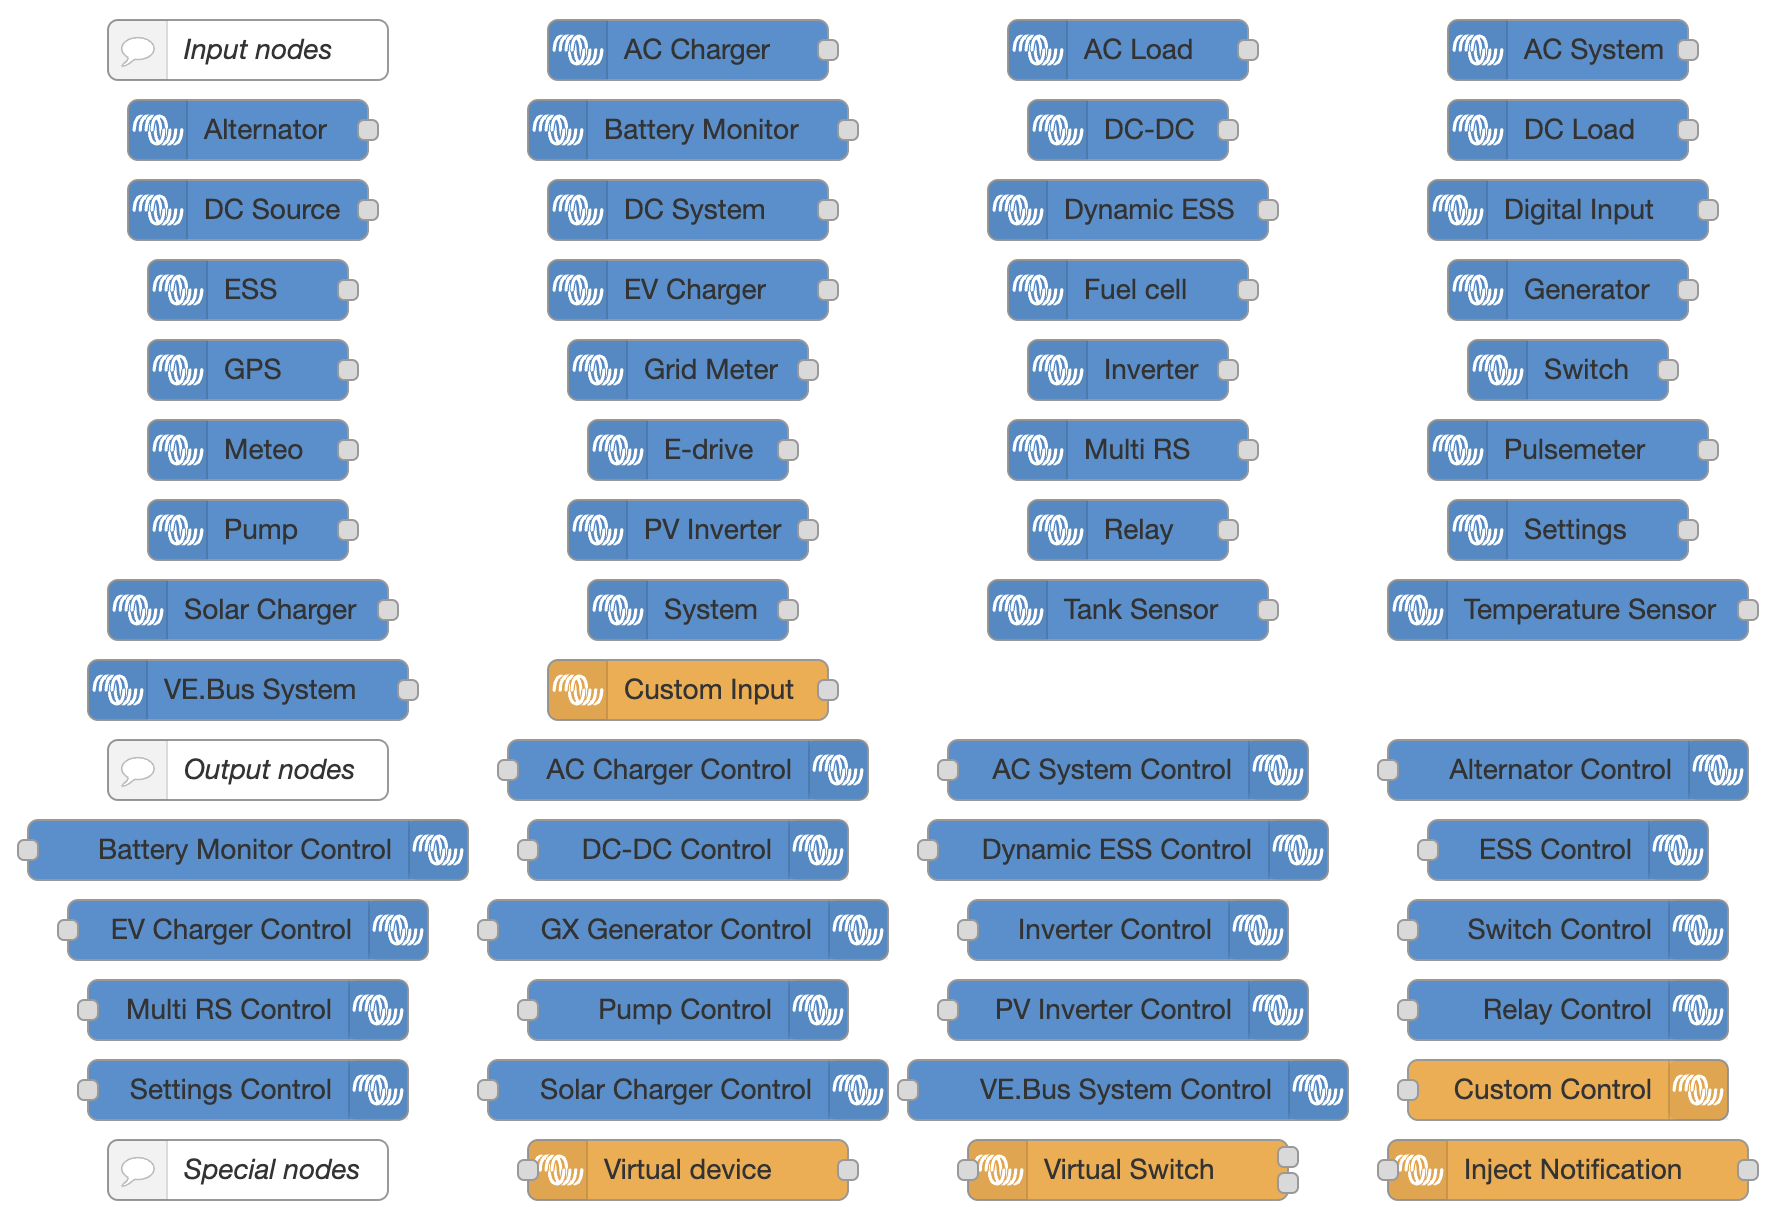
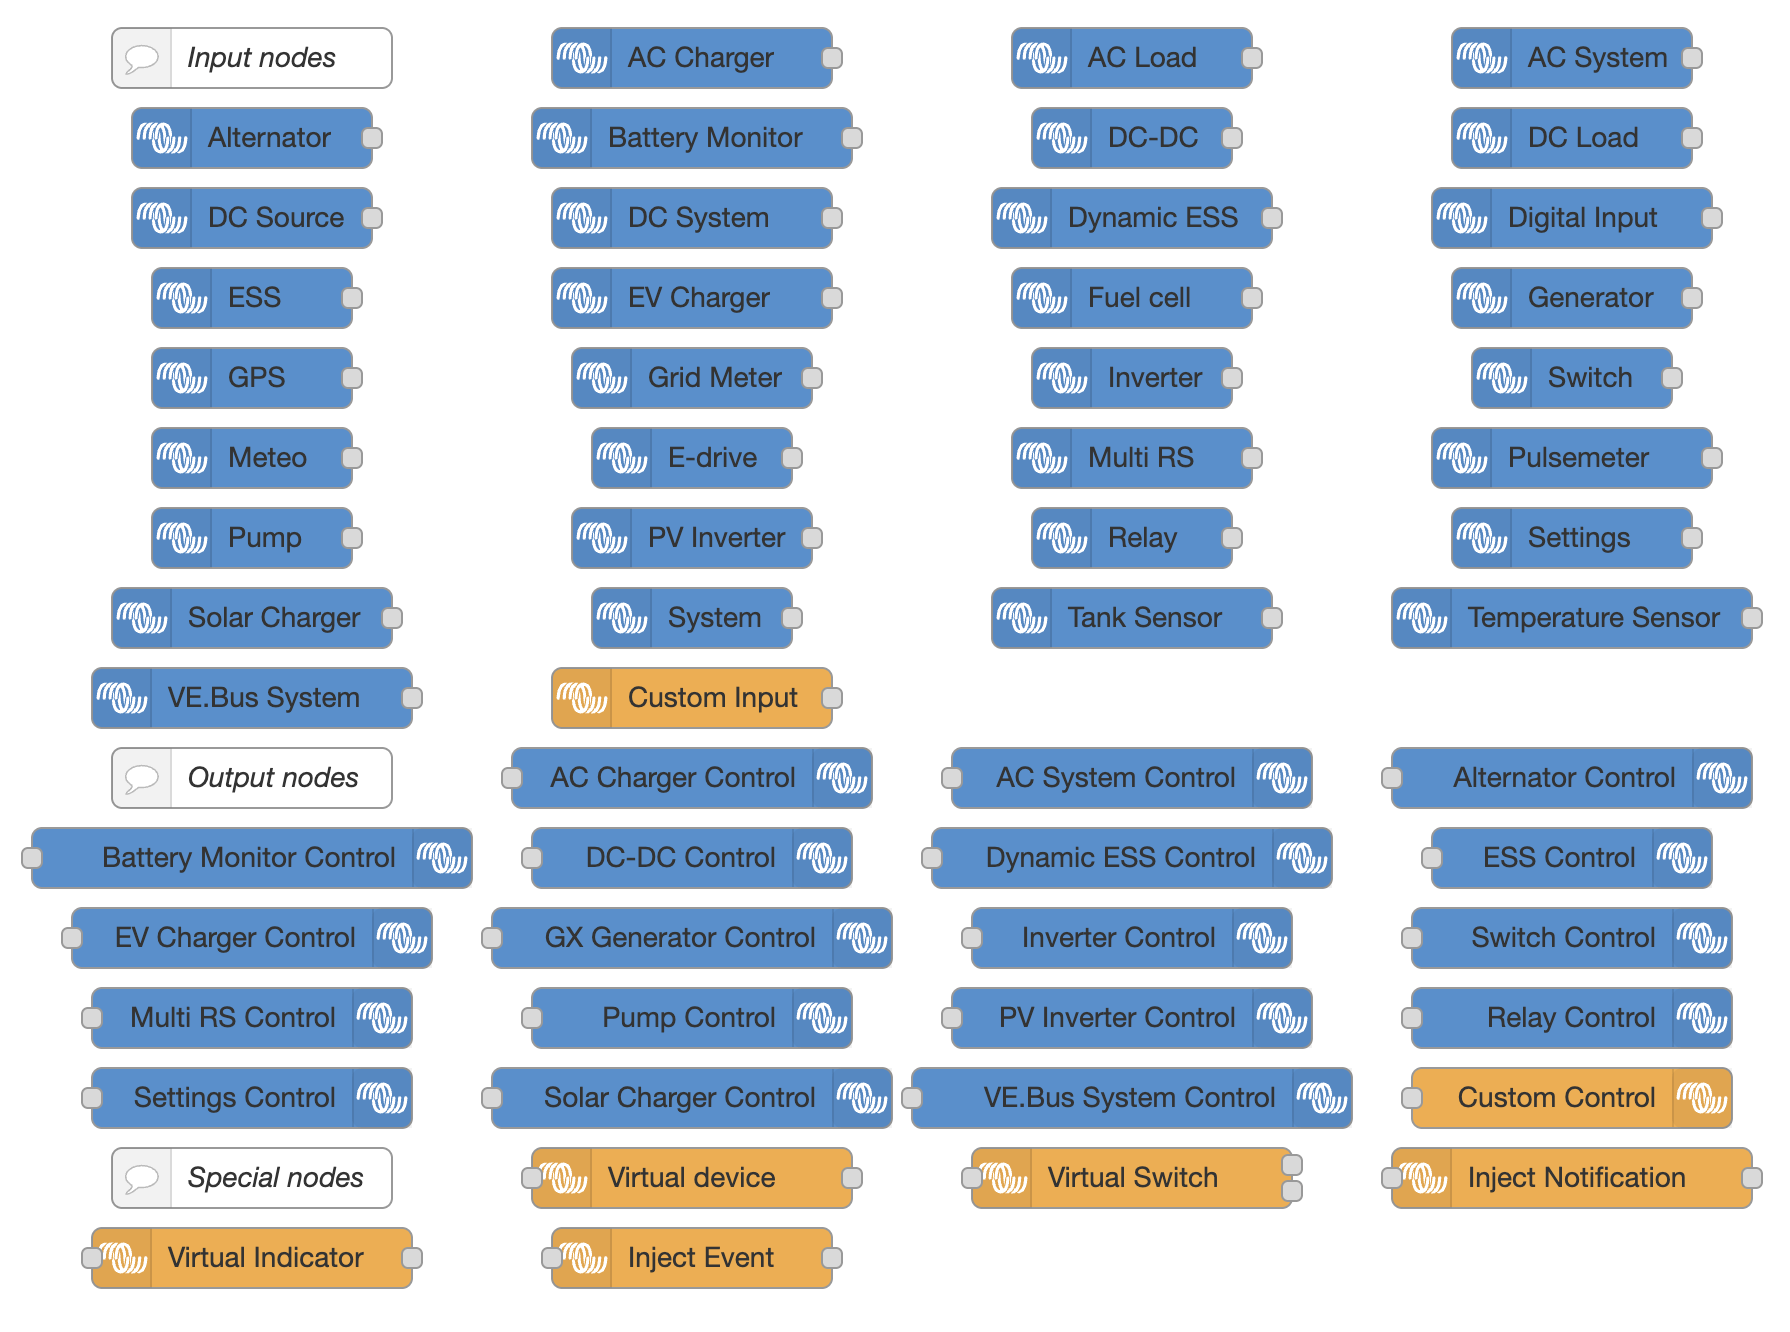
docs: add virtual indicator and inject event nodes to palette and documentation

diff --git a/scripts/node-palette.js b/scripts/node-palette.js
@@ -76,5 +76,7 @@ for (const node of nodes) {
 output.nodes.push({ type: 'victron-virtual', name: 'Virtual device', z: '1234567891', id: '1234567891', x: 370, y: 620 })
 output.nodes.push({ type: 'victron-virtual-switch', name: 'Virtual Switch', z: '1234567891', id: '1234567892', x: 590, y: 620 })
 output.nodes.push({ type: 'victron-inject', name: 'Inject Notification', z: '1234567891', id: '1234567893', x: 810, y: 620 })
+output.nodes.push({ type: 'victron-virtual-indicator', name: 'Virtual Indicator', z: '1234567891', id: '1234567894', x: 150, y: 660 })
+output.nodes.push({ type: 'victron-event', name: 'Inject Event', z: '1234567891', id: '1234567895', x: 370, y: 660 })
 
 console.log(JSON.stringify(output))

diff --git a/docs/USER_GUIDE.md b/docs/USER_GUIDE.md
@@ -36,8 +36,8 @@ Virtual devices create simulated Victron devices on the system, which
 will appear on VRM.
 
 At the moment there are several different virtual devices available,
-including battery, grid meter, temperature sensor, pv inverter switch
-and meteo.
+including battery, grid meter, temperature sensor, pv inverter, switch,
+meteo and indicator.
 Check the documentation of the node itself for more info.
 
 #### Virtual Device Usage

diff --git a/README.md b/README.md
@@ -39,6 +39,7 @@ Create simulated Victron devices on the dbus:
 - Generator
 - GPS
 - Grid meter
+- Indicator
 - Meteo
 - Motor drive
 - PV inverter